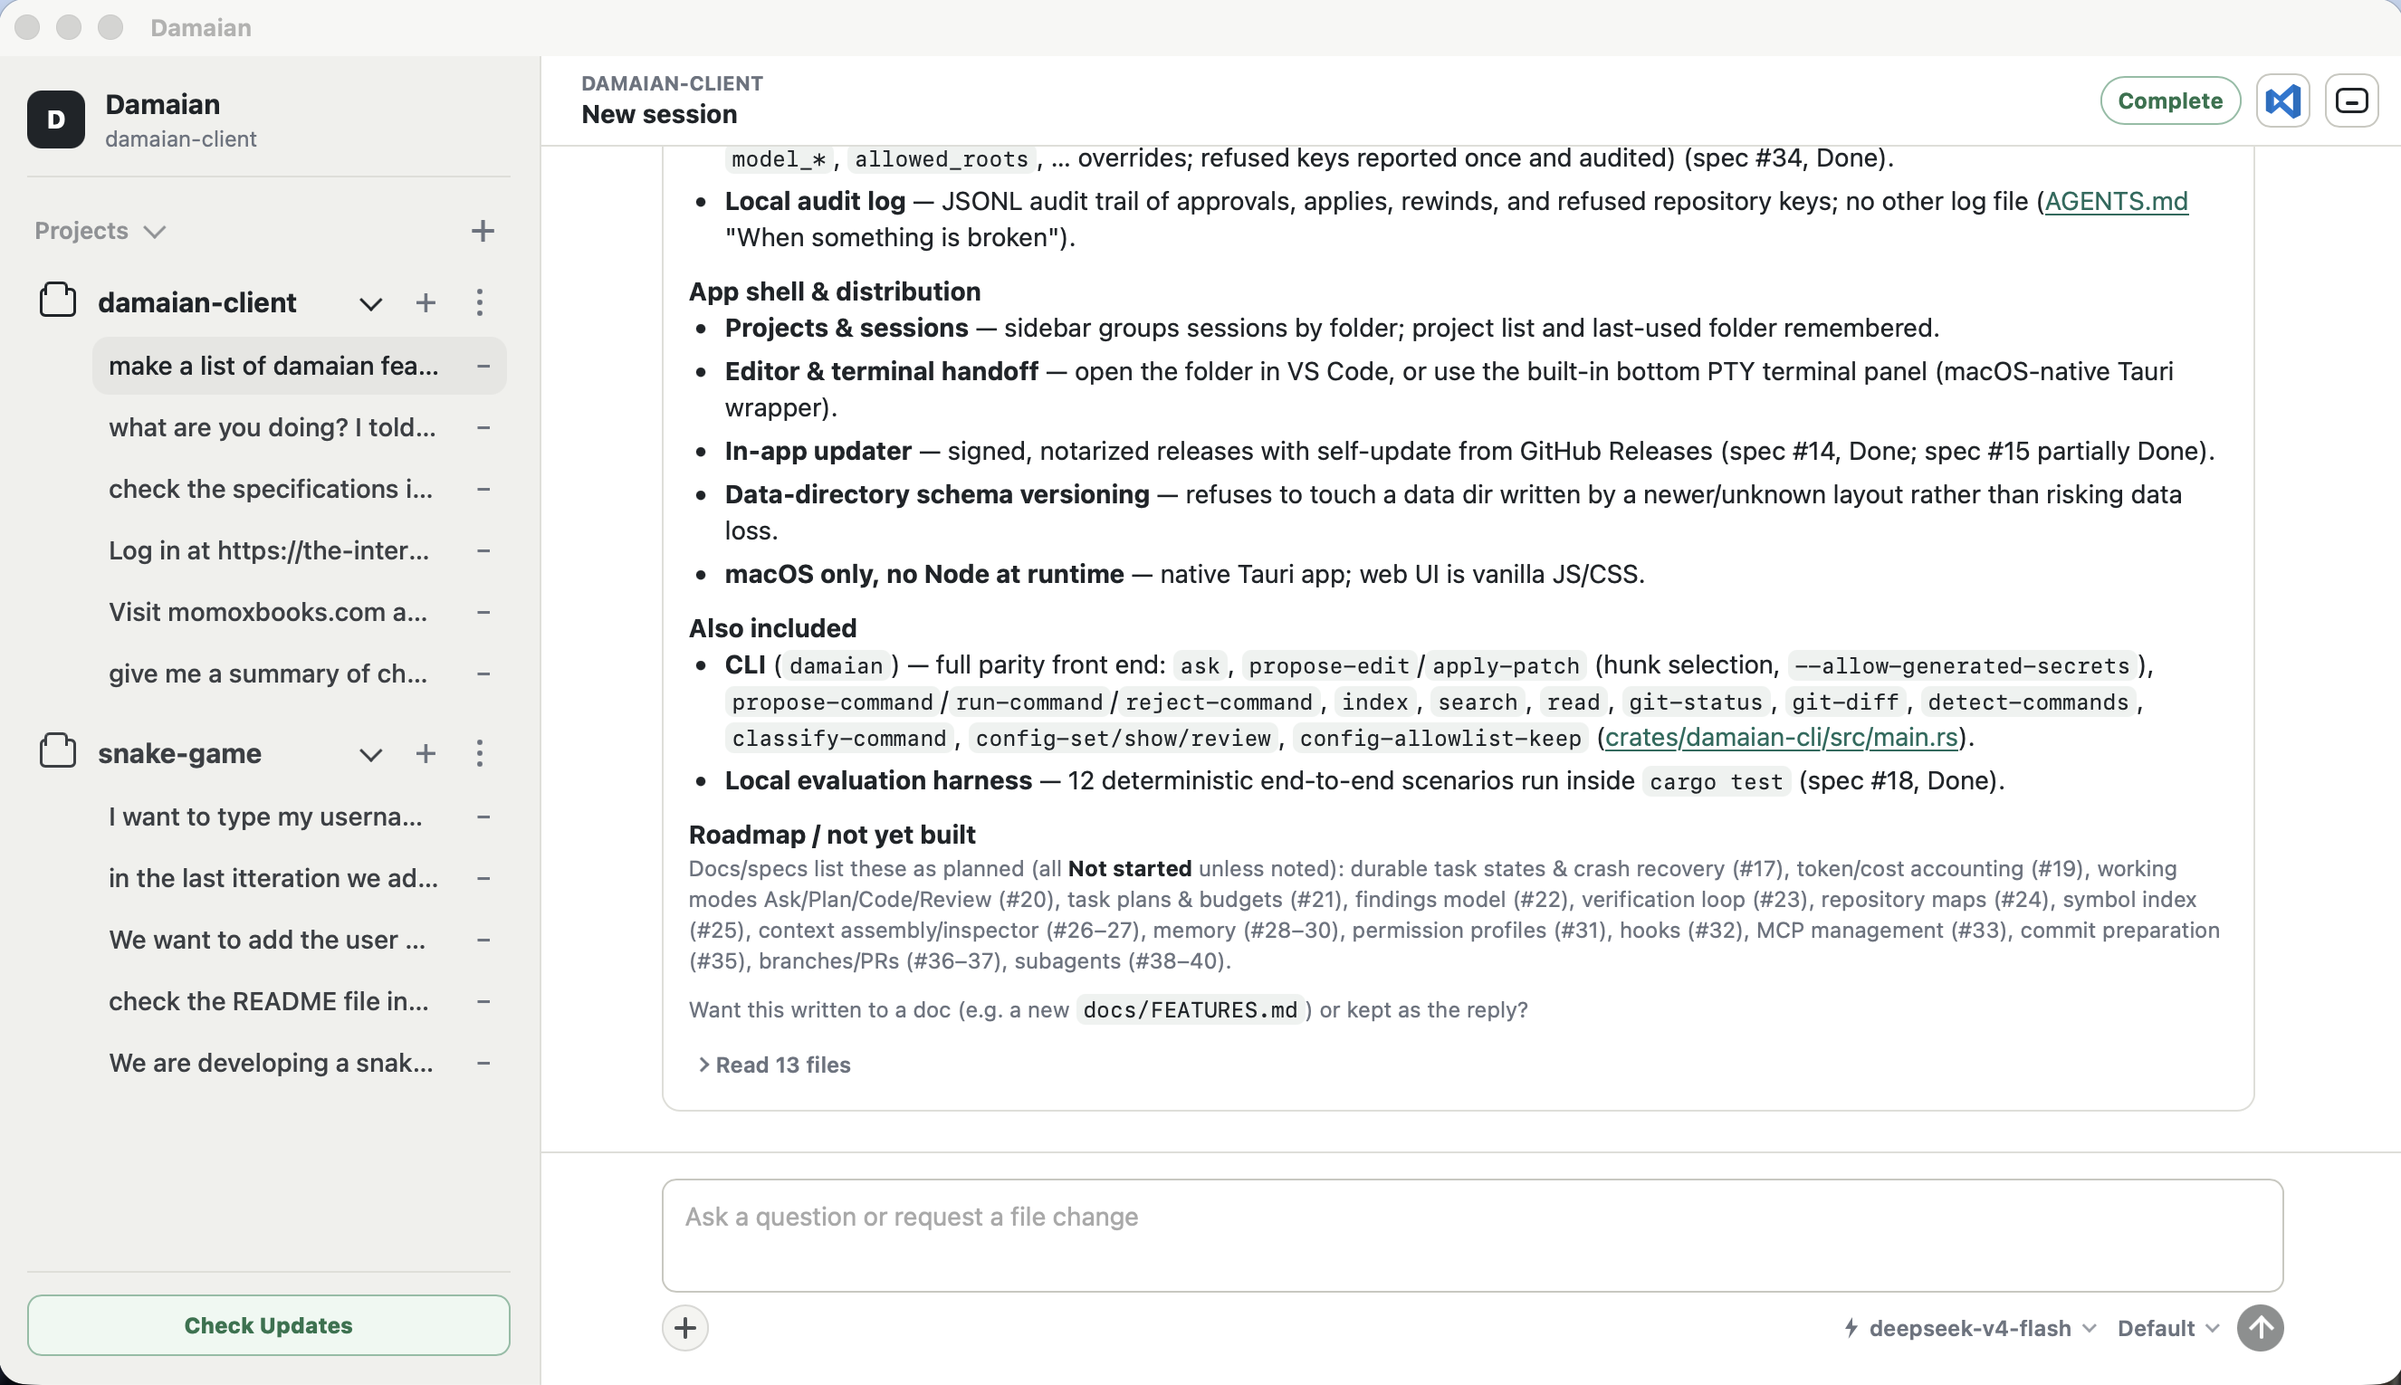
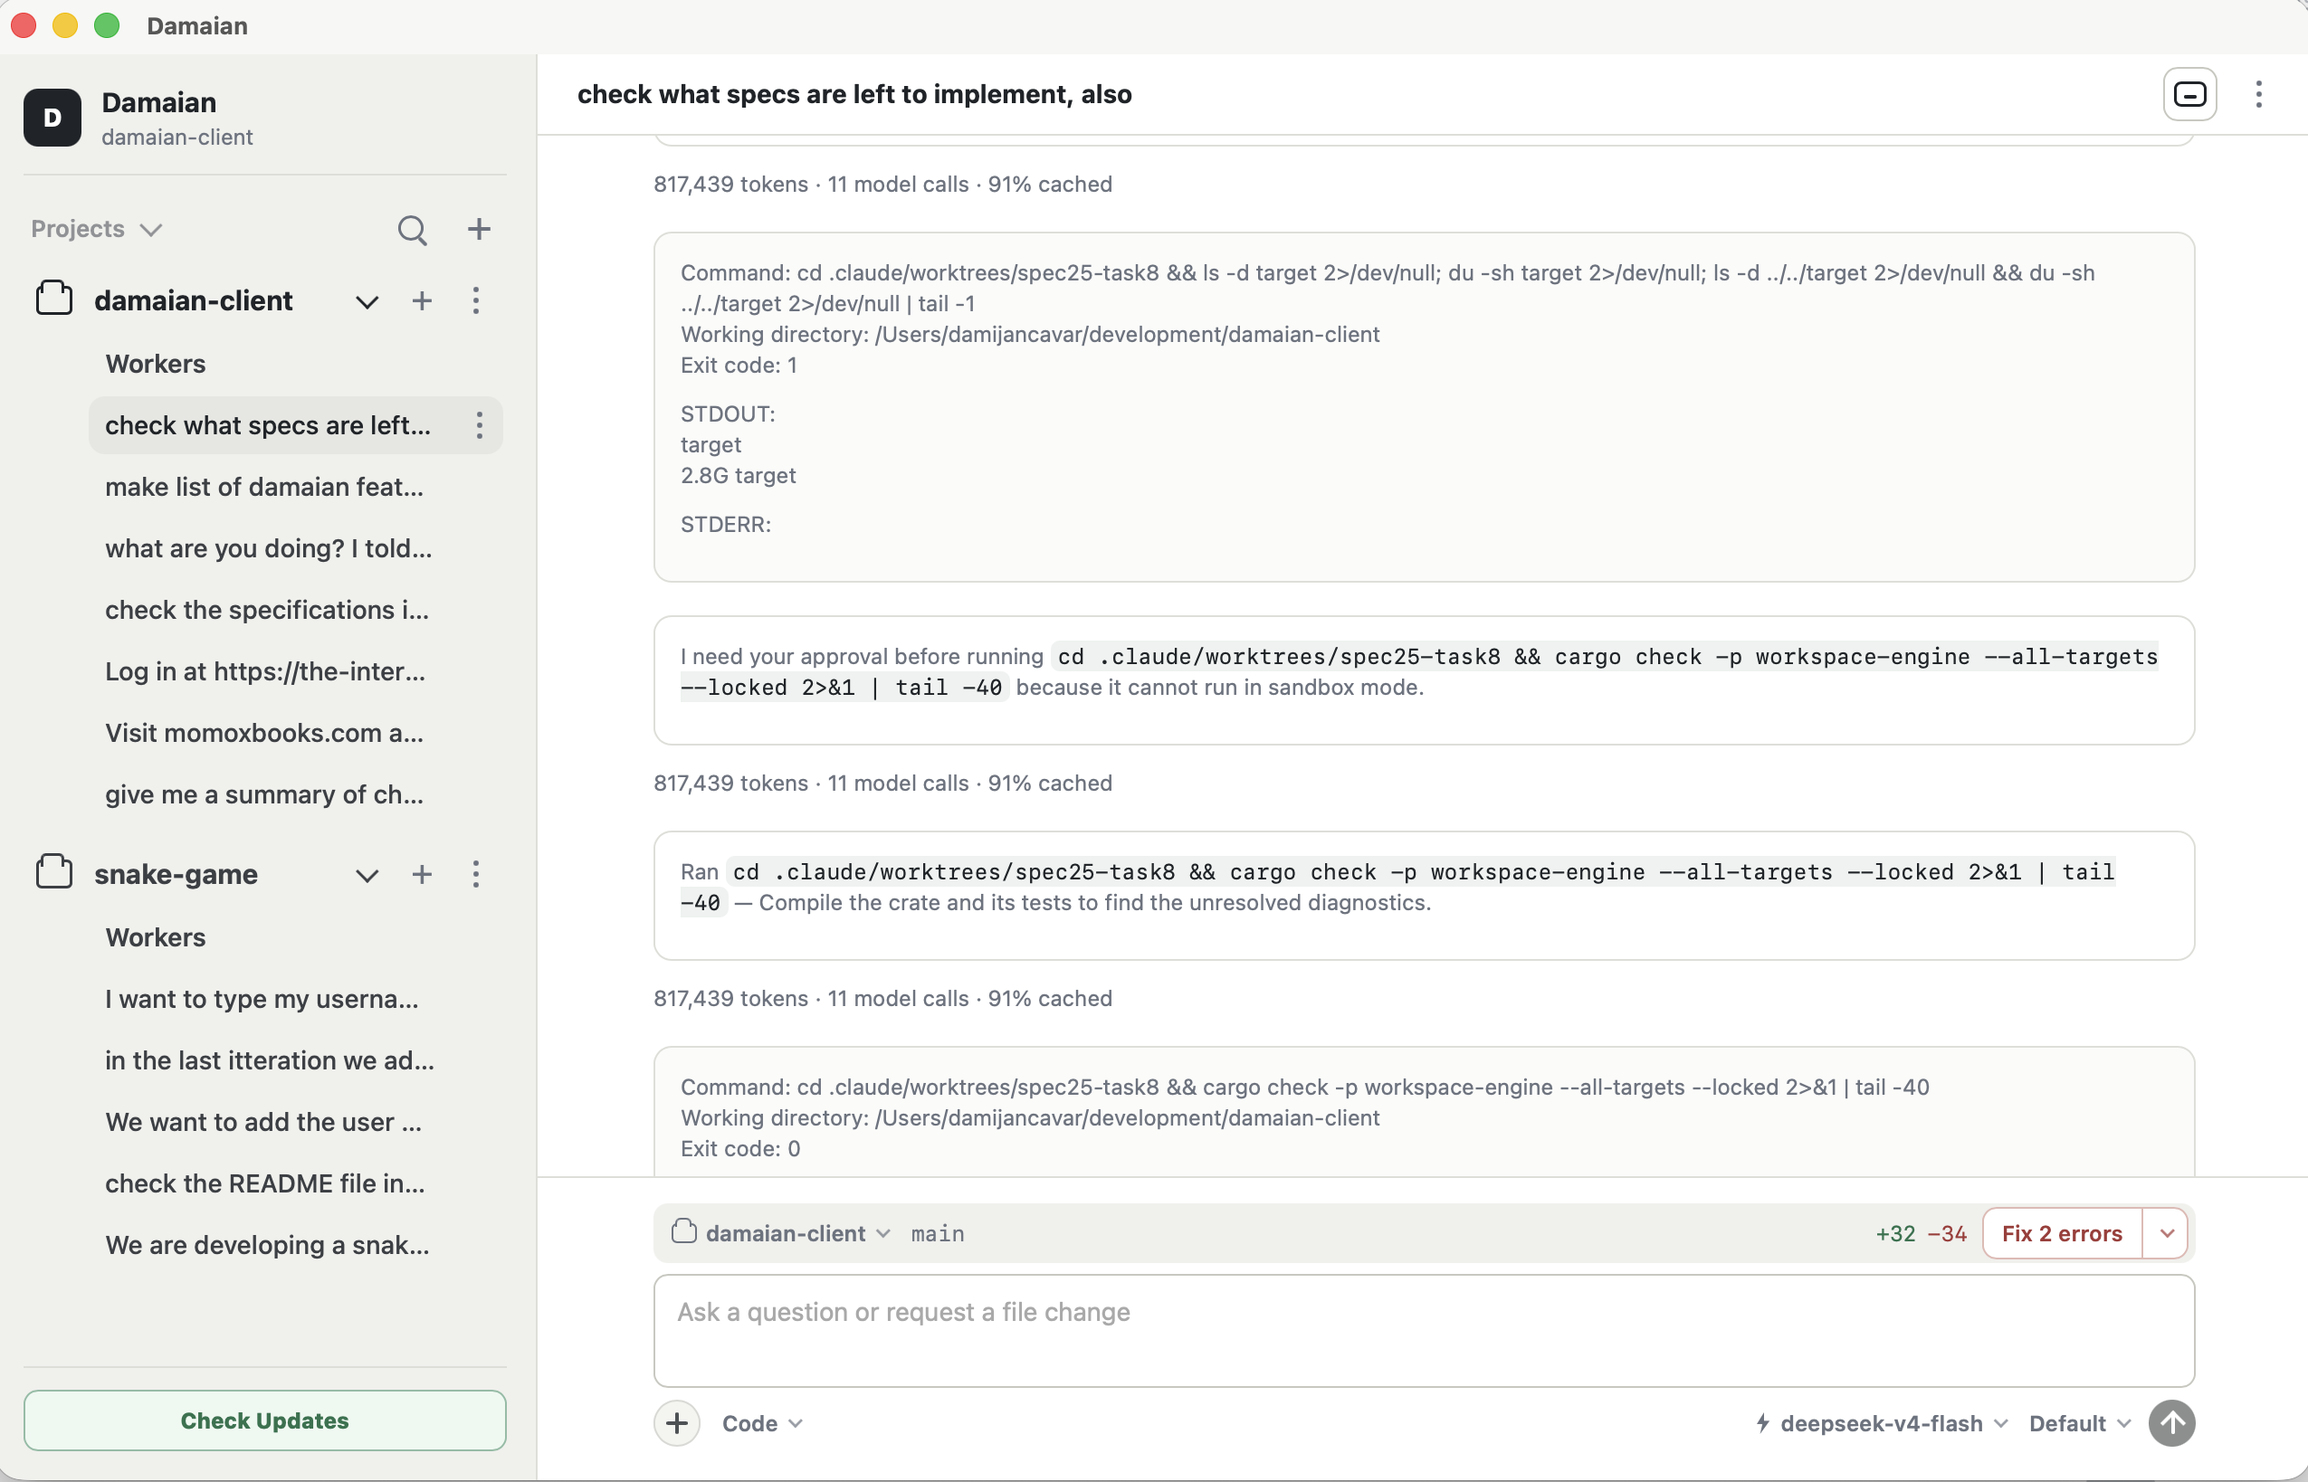
Correct stale security, signing, update and command-policy docs

diff --git a/docs/USER_GUIDE.md b/docs/USER_GUIDE.md
@@ -2,7 +2,7 @@
 
 Damaian is a local-first AI coding assistant for macOS. It indexes a local Git repository, prepares focused context for coding questions, previews generated edits as diffs, and records local audit data.
 
-This build is a developer preview. It is usable for local workflows and can offer signed in-app updates from GitHub Releases, but it is not yet Developer ID signed or notarized.
+This build is a developer preview. Release builds are Developer ID signed and notarized, and update themselves from GitHub Releases. The feature set is still moving, and configuration and stored data may change shape between releases.
 
 ## First Run
 
@@ -13,7 +13,7 @@ This build is a developer preview. It is usable for local workflows and can offe
 
 ## Updates
 
-Damaian checks for updates when the desktop app starts. If a newer GitHub Release is available, an `Update <version>` button appears in the conversation header. Select it to download the signed update, install it, and restart the app.
+Damaian checks for updates when the desktop app starts, and on demand from **Damaian › Check for Updates...**. If a newer GitHub Release is available, the button at the bottom of the sidebar changes to `Update <version>`. Select it and confirm **Install** to download and install the signed update, then quit and reopen Damaian to finish.
 
 The first installed version must already include the updater. If you installed an older developer-preview DMG before automatic updates were added, download and install one newer DMG manually once.
 
@@ -133,11 +133,13 @@ under their directory, and more specific nested instructions override broader
 ones. These instructions are sent for chat answers and edit proposals, but they
 do not override your request or Damaian's safety policy.
 
-If the assistant needs a local command result to answer a question, it can request one command from Damaian. Sandbox-safe read-only commands, such as `pwd`, `ls`, `git status`, `git diff`, `git log`, and `git show`, run automatically in the selected working folder. Damaian redacts the output and sends it back to the model so it can finish answering.
+If the assistant needs a local command result to answer a question, it can ask Damaian to run commands. Read-only commands Damaian recognises, such as `pwd`, `ls`, `git status`, and `git log`, run without asking, in the selected working folder. They are not sandboxed: they run directly on your machine, which is why only commands Damaian classifies as read-only qualify. Simple pipelines made only of such commands, filtered through `head`, `tail`, `wc`, `sort`, `uniq`, `cut`, or `grep`, also run without asking. Damaian redacts the output and sends it back to the model so it can finish answering.
 
-Commands that cannot run in sandbox mode appear as an approval card in the conversation. Review the command, risk, working directory, and reason, then select `Approve Run` or `Reject`. Destructive commands blocked by policy cannot be approved from the UI.
+`git diff` and `git show` ask first, because they print file contents a command line cannot bound or keep restricted paths out of. The assistant reads changes through its own diff tool instead, which does both.
 
-Docker commands, including `docker ps`, `docker compose ...`, and `docker-compose ...`, are approval-gated by default. They can inspect or change a privileged local daemon, use the network, start background services, mount host paths, expose ports, and mutate images or volumes, so Damaian never treats them as automatically sandbox-safe.
+Every other command appears as an approval card in the conversation. Review the command, risk, working directory, and reason, then select **Approve** or **Reject**. Destructive commands blocked by policy cannot be approved from the UI.
+
+Docker commands, including `docker ps`, `docker compose ...`, and `docker-compose ...`, always ask for approval. They can inspect or change a privileged local daemon, use the network, start background services, mount host paths, expose ports, and mutate images or volumes, so Damaian never treats them as read-only.
 
 `Allow Always` runs the command and records it in your own config as `command_allowlist.<repository_id>`, so that command stops asking. The allowance covers the exact command only: allowing `npm run test:unit` does not allow `npm run test:unit --watch`, and allowing `git push` does not allow `git push --force`. It applies to that working folder alone, and not to another clone of the same project at a different path. Remove an entry by editing the `command_allowlist.<repository_id>` line in `~/Library/Application Support/DamaianClient/config/user.conf`.
 
@@ -276,15 +278,9 @@ Sessions created before modes existed continue in Code mode, which is what they
 could already do, so none of them lost anything. Change one with the same
 control.
 
-Known limits:
-
-- `git diff`, `git log` and `git show` count as read-only commands, but all
-  three accept `--output=<file>`, which writes a file. In Plan or Review, a path
-  inside the repository is therefore not refused. A path outside it needs
-  approval and is refused.
-- The CLI's `propose-edit` runs outside any session, so no mode applies to it.
-  The repository's permission profile still does: under Read-only it is refused
-  before the model is asked anything.
+Known limit: the CLI's `propose-edit` runs outside any session, so no mode
+applies to it. The repository's permission profile still does: under Read-only
+it is refused before the model is asked anything.
 
 ## Permission Profiles
 
@@ -367,9 +363,8 @@ network. Because the check reads the command name, `local` also blocks every
 `cargo test` is allowed.
 
 A custom profile may also use `command_access=read_only`, which allows only the
-low-risk read-only commands Plan mode allows. It inherits that check's known gap
-(`git diff --output=<file>` counts as read-only). The built-in Read-only profile
-uses `none`, so it does not.
+low-risk read-only commands Plan mode allows. The built-in Read-only profile
+uses `none`, which allows no commands at all.
 
 **Offline private does not stop model traffic.** Your prompts and the code in
 context are network traffic to the model provider, and no profile can change
@@ -695,7 +690,7 @@ Every example below is user-scope configuration: enter it in `Settings`, or writ
 cargo run -p damaian-cli -- config-set user model_provider deepseek
 ```
 
-Naming a built-in provider is usually the only line you need. `model_provider=deepseek` or `model_provider=openai` fills in the base URL, the default model, and the key variable for that provider; set the other keys only to override one of those.
+Naming a built-in provider fills in most of the setup. `model_provider=deepseek` or `model_provider=openai` sets the base URL, the default model, and the key variable for that provider; set the other keys only to override one of those. You also need to turn on **Native tool-calling** for the provider (Settings › Providers › Provider details, or `model_provider.<id>.supports_native_tools=true`). Built-in providers leave it off, and without it the assistant can answer questions but cannot propose file changes, make plans, or use MCP or any other tools.
 
 Example DeepSeek configuration:
 
@@ -1150,8 +1145,8 @@ Damaian keeps the local app in control of important effects:
 - The model does not read files directly.
 - The model does not write files directly.
 - File edits are previewed before application.
-- Sandbox-safe assistant command requests are limited to read-only local commands.
-- Commands outside the sandbox require user approval before execution, unless the exact command was previously approved with `Allow Always` for that repository.
+- Assistant commands run without approval only when Damaian classifies them as read-only. They are not sandboxed.
+- Every other command requires your approval before it runs, unless you allowed that exact command always for that repository.
 - Restricted files and detected secrets are redacted or blocked by policy.
 - A [permission profile](#permission-profiles) per repository can narrow all of this further, and never widen it.
 - Important actions are recorded in a local audit trail.

diff --git a/docs/MACOS_INSTALLATION.md b/docs/MACOS_INSTALLATION.md
@@ -58,7 +58,7 @@ If macOS says the application is damaged, the bundle signature did not verify. R
 
 ## Updates
 
-Damaian checks GitHub Releases for updates when the desktop app starts. If a newer signed release is available, an `Update <version>` button appears in the conversation header. Select it to download the update, verify its updater signature, install it, and restart the app.
+Damaian checks GitHub Releases for updates when the desktop app starts, and on demand from **Damaian › Check for Updates...**. If a newer signed release is available, the button at the bottom of the sidebar changes to `Update <version>`. Select it and confirm **Install**: Damaian downloads the update, verifies its updater signature, and installs it. Quit and reopen Damaian to finish.
 
 Automatic updates require a build that already includes the updater. If you installed an older developer-preview DMG before automatic updates were added, replace it manually with a newer DMG once.
 
@@ -66,7 +66,7 @@ Automatic updates require a build that already includes the updater. If you inst
 
 Select `+` beside `Projects` to open the native macOS folder picker. Pick the local Git repository or working folder you want Damaian to inspect. The folder appears under `Projects`, and its chat sessions are grouped underneath it. Use the `+` beside a project folder to start a new session for that project.
 
-Select the Visual Studio Code icon in the conversation header to open the selected working folder in Visual Studio Code. Damaian keeps AI orchestration and safety controls in the app while code navigation and IDE work happen in VS Code.
+Use the conversation header's ⋮ menu, **Open in › VS Code**, to open the selected working folder in Visual Studio Code. Damaian keeps AI orchestration and safety controls in the app while code navigation and IDE work happen in VS Code.
 
 Select the terminal icon in the conversation header to open the bottom terminal panel. It starts in the selected working folder, or in your home directory when no folder is selected yet.
 

diff --git a/README.md b/README.md
@@ -29,9 +29,8 @@ API keys under your control.
   can run read-only commands (like `git status` or `git log`) on its own.
   Anything that writes, installs, or reaches the network waits for your approval
   in the conversation, showing the full command before you decide. Approve once,
-  or allow that command for the project. Docker is handled as its own
-  approval-gated family, with only sandbox-safe read-only calls running
-  unprompted.
+  or allow that command for the project. Docker commands, including read-only
+  ones such as `docker ps`, always ask.
 - **Stop a run that is going wrong.** Long turns report what they are doing and
   how long they have been doing it, and stop on `Escape` or the Stop button.
 - **Give the assistant project rules.** `AGENTS.md` files are read as scoped
@@ -46,12 +45,14 @@ API keys under your control.
   export a whole conversation as Markdown. Exports are secret-redacted and say
   at the top how many secrets were removed, so what you share is not what the
   session stored.
-- **Hand off to your editor.** Open the current folder in Visual Studio Code, or
-  use the built-in bottom terminal panel, in one click.
+- **Hand off to your editor.** Open the current folder in Visual Studio Code or
+  Finder from the conversation header's ⋮ menu, or open the built-in terminal
+  panel beside it.
 - **Keep secrets safe.** Detected credentials are redacted from context, command
   output, and diffs, and your model API key is stored in the macOS Keychain.
-- **Update in place.** When a newer signed release is available, an update button
-  appears in the app.
+- **Update in place.** When a newer signed release is available, the update
+  button at the bottom of the sidebar installs it after you confirm; restart
+  Damaian to finish.
 
 ## Requirements
 

diff --git a/SECURITY.md b/SECURITY.md
@@ -4,7 +4,7 @@ Damaian is a developer preview. It is designed to keep repository access, file w
 
 ## Supported Versions
 
-Security fixes target the current `main` branch. Published preview builds should be treated as experimental until Developer ID signing and notarization are in place.
+Security fixes target the current `main` branch and ship in the next release. Only the latest release is supported. Release builds are Developer ID signed and notarized; locally built DMGs are ad-hoc signed.
 
 ## Reporting a Vulnerability
 
@@ -39,7 +39,7 @@ The desktop API token is never served over HTTP. It is delivered to the webview 
 
 Model provider requests use `curl --config -` so the provider API key is passed through the child process stdin configuration, not as a command-line argument.
 
-Patch rollback snapshots are redacted through the same secret scanner used for diffs and Git output before being written to disk, so pre-edit file content captured for rollback does not retain hardcoded credentials.
+Patch rollback snapshots and session checkpoints store pre-edit file content unredacted, under `<data_dir>/rollback/` and the checkpoint store. That is deliberate: redaction covers what leaves your control (model context, command output, diffs, the audit log), and a snapshot is a local copy kept so a file can be put back exactly. Redacting it would corrupt the restore. Treat the data directory as sensitive and do not share it.
 
 ## Git Read Hardening
 

diff --git a/docs/TROUBLESHOOTING.md b/docs/TROUBLESHOOTING.md
@@ -1667,9 +1667,11 @@ on anything you configured.
 
 ### The packaged app will not launch
 
-Expected, not a bug. The developer preview is ad-hoc signed, not Developer ID
-signed or notarized, so Gatekeeper blocks first launch. The workaround is in
-[macOS Installation](MACOS_INSTALLATION.md). Do not try to "fix" it in code.
+Release DMGs are Developer ID signed and notarized, so they open without a
+Gatekeeper prompt. A blocked first launch usually means a DMG built locally or
+by a manually triggered preview run, which is ad-hoc signed. That is expected,
+not a bug; the workaround is in [macOS Installation](MACOS_INSTALLATION.md). Do
+not try to "fix" it in code.
 
 ### The quality gate is slow locally
 
